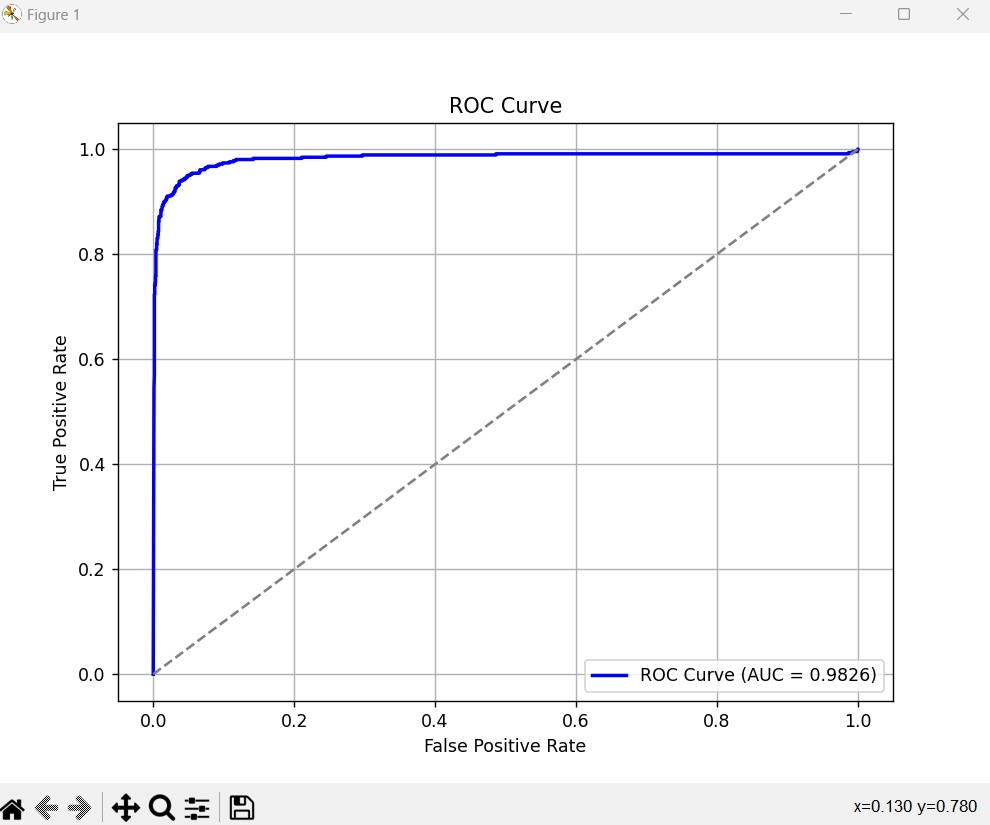
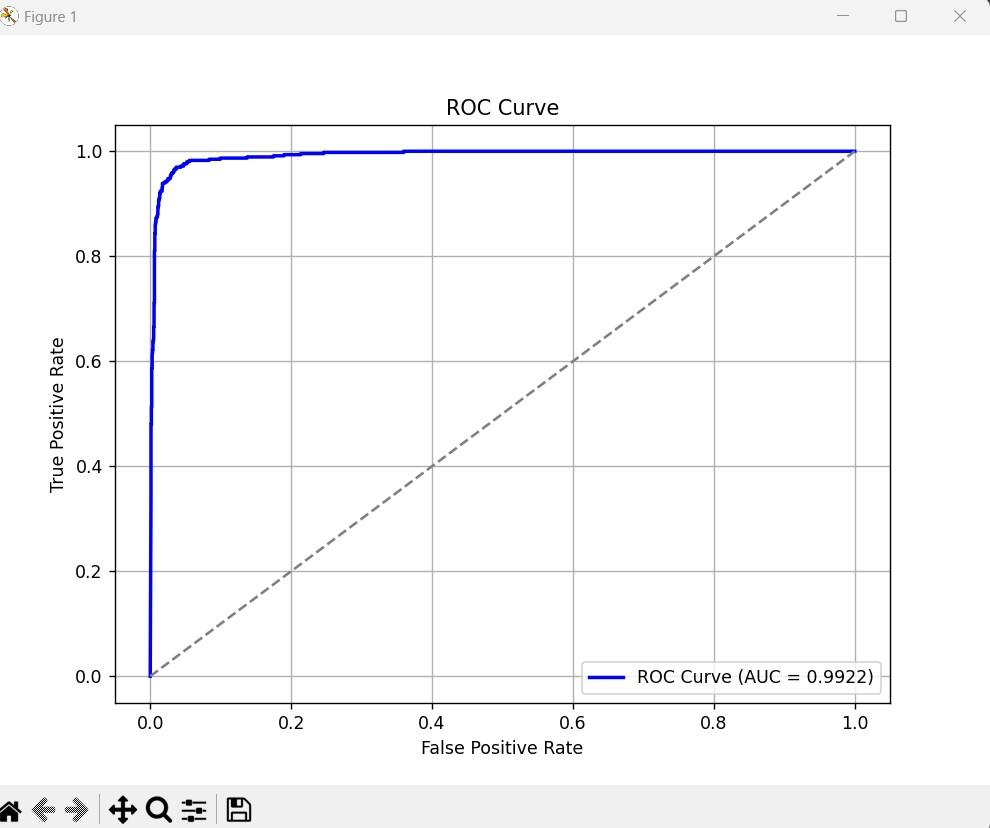
update metrics with results

diff --git a/seizure_classification/main.py b/seizure_classification/main.py
@@ -30,7 +30,7 @@ def main() -> None:
     # 3. Initialize model, loss function, and optimizer
     model = SeizureNN().to(device)
     criterion = torch.nn.BCELoss()
-    optimizer = torch.optim.Adam(model.parameters(), lr=0.001)
+    optimizer = torch.optim.Adam(model.parameters(), lr=0.0005)
 
     # 4. Train the model with early stopping
     train_with_early_stopping(model, criterion, optimizer, train_loader, val_loader, num_epochs, early_stopping_patience, device, BEST_MODEL_PATH)

diff --git a/seizure_classification/README.md b/seizure_classification/README.md
@@ -4,24 +4,24 @@
 This project focuses on building a binary classifier using a neural network to recognize epileptic seizures from time series data. The classifier is trained on a dataset containing EEG signals, which are used to detect the occurrence of epileptic seizures. The goal is to create a highly accurate model that can distinguish between seizure and non-seizure events using time series data as input features.
 
 ## Dataset
-The dataset used for this project is from the Kaggle competition: **Epileptic Seizure Recognition**. It contains time series EEG data from patients, where each row represents EEG data captured over time, and the last column contains the label indicating whether the data corresponds to an epileptic seizure (1) or not (0).
+The dataset used for this project is from Kaggle : **Epileptic Seizure Recognition**. It contains time series EEG data from patients, where each row represents EEG data captured over time, and the last column contains the label indicating whether the data corresponds to an epileptic seizure with 1 being seizure and 2-5 being non-seizure data labels.
 
-- **Link to Dataset**: [Epileptic Seizure Recognition on Kaggle](https://www.kaggle.com/datasets/harunshimanto/epileptic-seizure-recognition/data)
+- **Link to Dataset**: [Epileptic Seizure Recognition Dataset](https://www.kaggle.com/datasets/harunshimanto/epileptic-seizure-recognition/data)
 
 ## Model Performance
 The model was evaluated using multiple metrics to assess its performance on the test dataset. Below are the key metrics:
 
-- **Accuracy**: `0.9665`
-- **ROC-AUC Score**: `0.9826`
+- **Accuracy**: `0.9691`
+- **ROC-AUC Score**: `0.9922`
 
 ### Classification Report:
 | Class | Precision | Recall | F1-Score | Support |
 |-------|-----------|--------|----------|---------|
-| 0.0   | 0.97      | 0.99   | 0.98     | 1840    |
-| 1.0   | 0.95      | 0.88   | 0.91     | 460     |
-| **Accuracy** |       |        | **0.97** | **2300** |
-| **Macro Avg** | 0.96 | 0.93   | 0.95     | 2300    |
-| **Weighted Avg** | 0.97 | 0.97   | 0.97     | 2300    |
+| 0.0   | 0.99      | 0.98   | 0.98     | 1840    |
+| 1.0   | 0.91      | 0.94   | 0.92     | 460     |
+| **Accuracy** |           |        | **0.97** | **2300** |
+| **Macro Avg** | 0.95      | 0.96   | 0.95     | 2300    |
+| **Weighted Avg** | 0.97      | 0.97   | 0.97     | 2300    |
 
 ### ROC Curve
 Below is the ROC Curve for the trained model:
